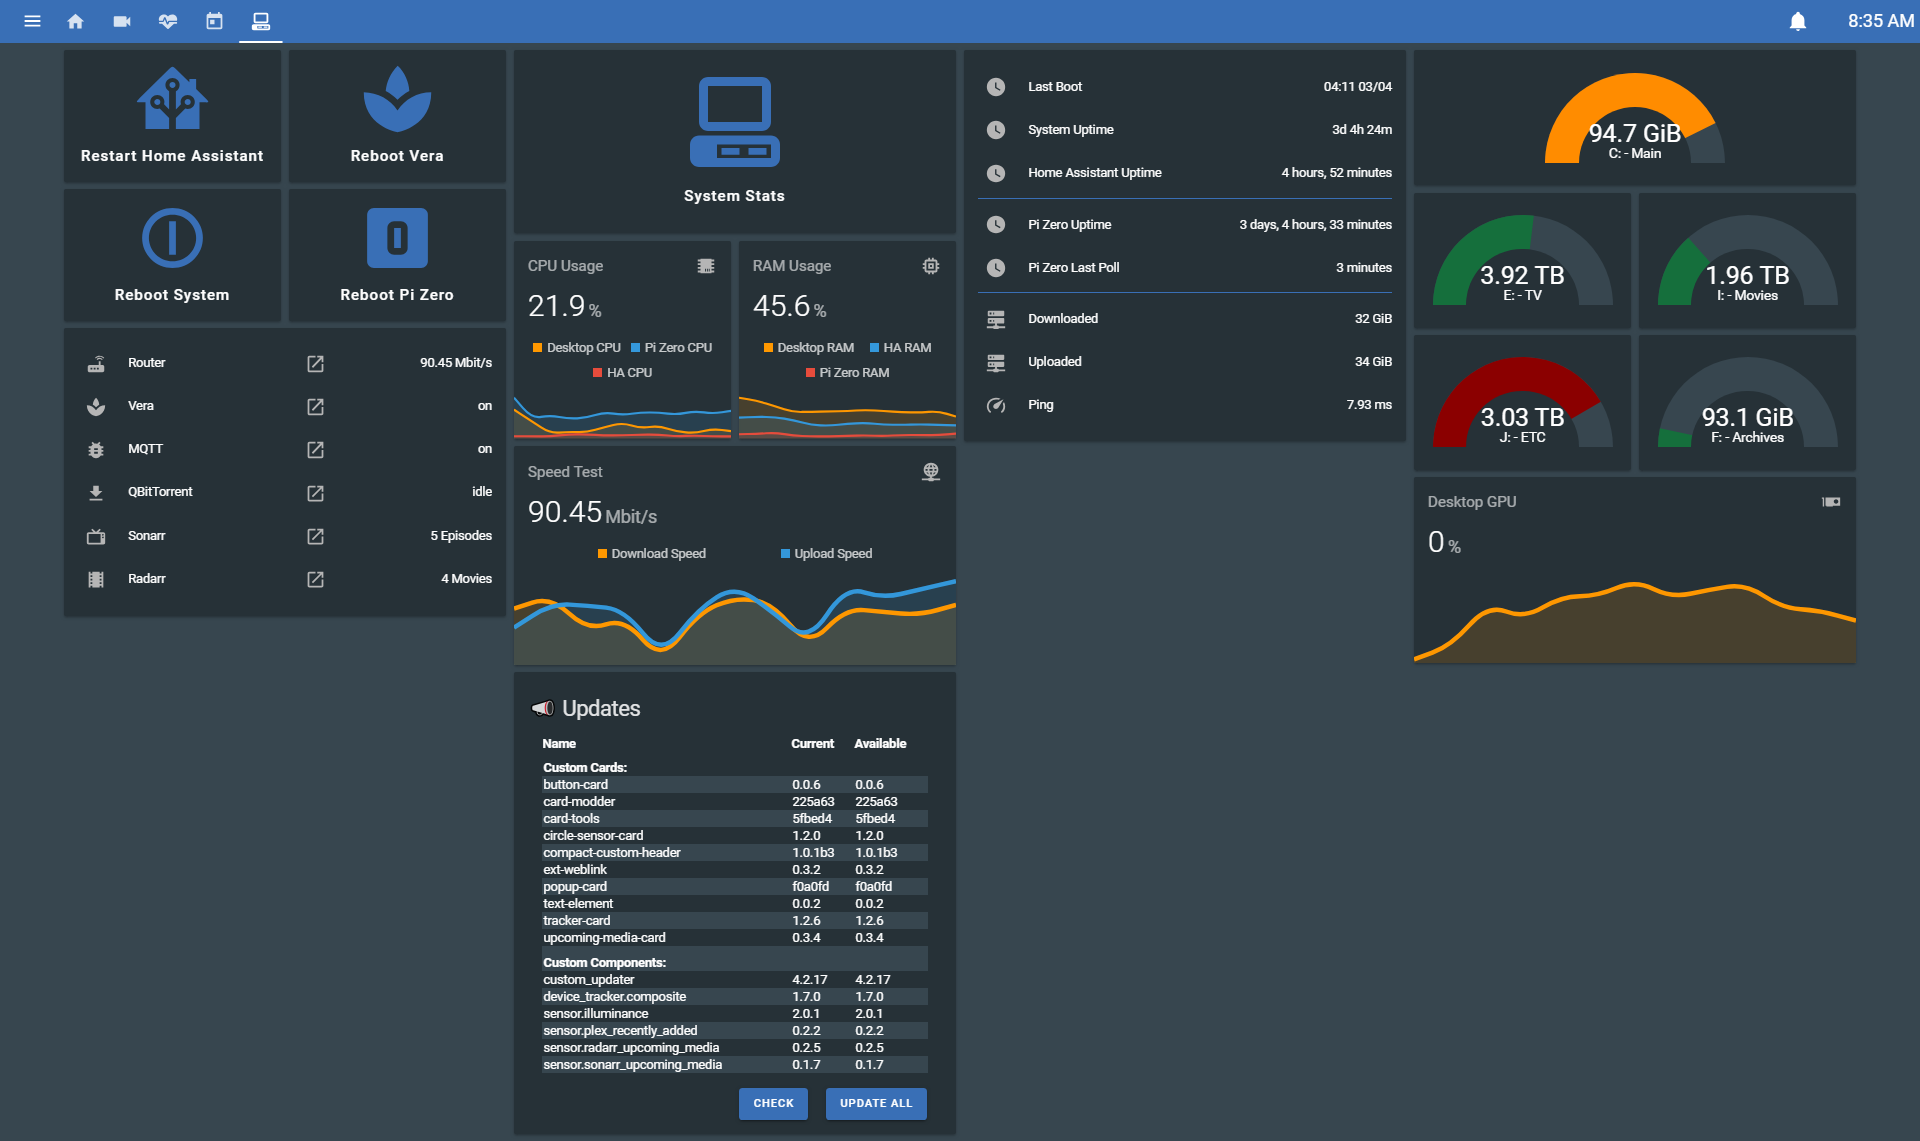
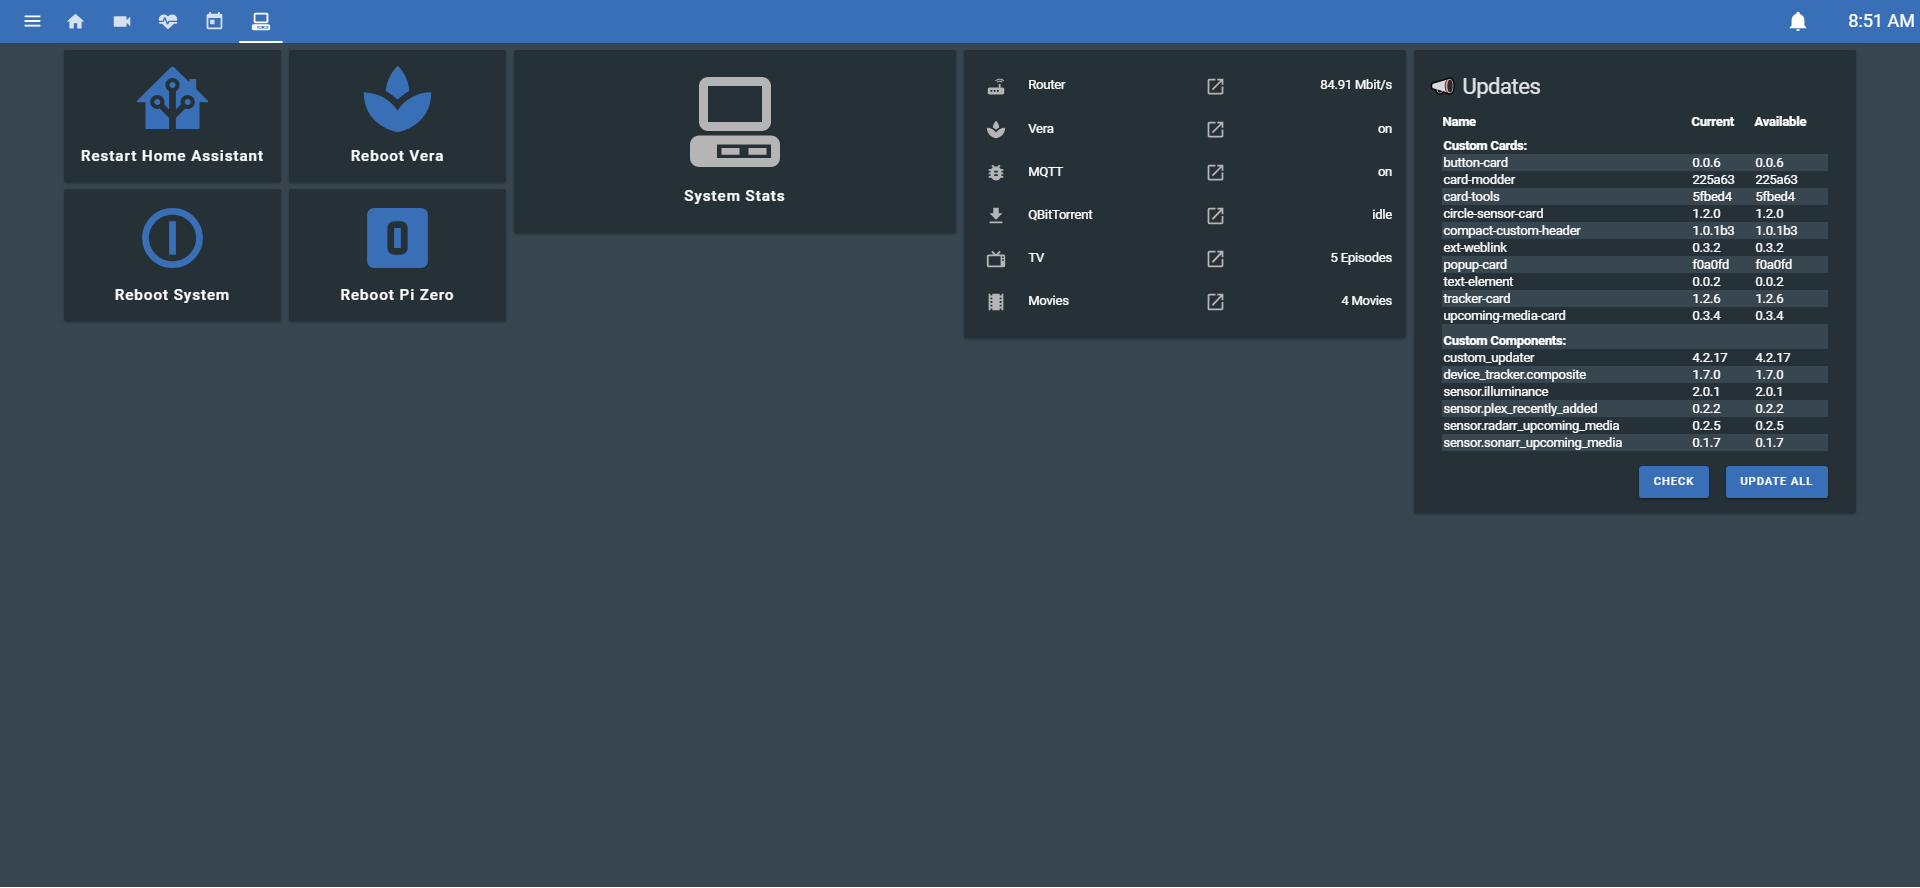
scheduled backup

diff --git a/README.md b/README.md
@@ -27,6 +27,20 @@ System Monitor View
 System Monitor View With All Expanded
 ![System View](Screenshots/system_view_collapsed.png)
 
+## Weblinks:
+Router
+![Router](Screenshots/weblink-router.png)
+Vera
+![Vera](Screenshots/weblink-vera.png)
+QBittorrent
+![QBittorrent](Screenshots/weblink-qbittorrent.png)
+MQTT
+![MQTT](Screenshots/weblink-mqtt.png)
+Sonarr
+![Sonarr](Screenshots/weblink-tv.png)
+Radarr
+![MQTT](Screenshots/weblink-movies.png)
+
 ## Custom Components:
 
 Monitor on my Pi Zero: https://github.com/andrewjfreyer/monitor/blob/master/monitor.sh
@@ -55,6 +69,18 @@ Compact Custom Header: https://github.com/maykar/custom-lovelace/tree/master/com
 Tracker Card: https://github.com/custom-cards/tracker-card
 
 Animated Weather Card: https://github.com/bramkragten/custom-ui/tree/master/weather-card
+
+Circle Sensor Card (for FitBit): https://github.com/custom-cards/circle-sensor-card
+
+Card Modder (to updated the background image of a couple cards): https://github.com/thomasloven/lovelace-card-modder
+
+Card Tools: https://github.com/thomasloven/lovelace-card-tools
+
+External Weblink (to allow for the sensor value to show up with the weblinks): https://github.com/custom-cards/ext-weblink
+
+Popup Card (I found this to be far more useful than I imagined initially, but click on an entity and see whatever you want): https://github.com/thomasloven/lovelace-popup-card
+
+Text Element (for when you use a markup on a picture element): https://github.com/custom-cards/text-element
 
 
 ## Hardware:
